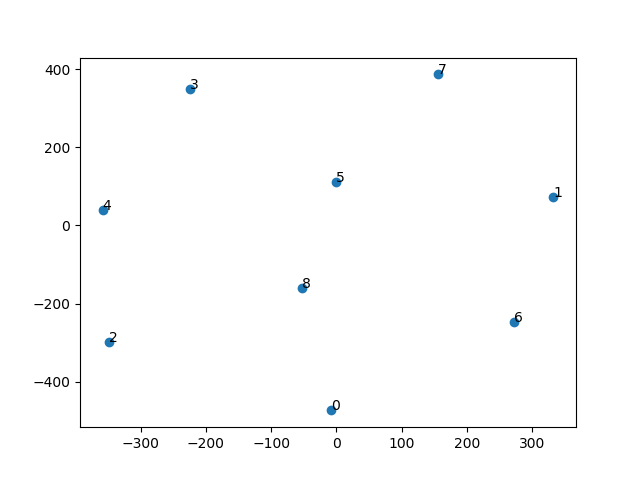
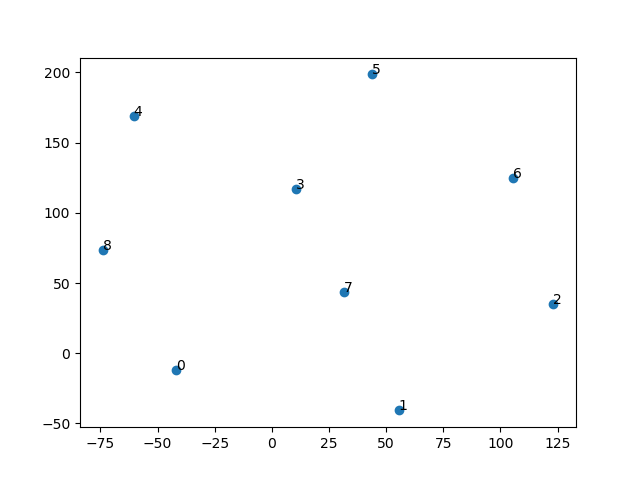
self loop random walk

diff --git a/toy_data/generate_walk.py b/toy_data/generate_walk.py
@@ -59,9 +59,6 @@ class RandomWalk:
         """
         walk = [start_vertex]
         neighbour_edges, neighbour_edges_count = self.first_neighbour_edges(start_vertex)
-        for neighbour_edge in neighbour_edges:
-            if start_vertex in self.graph[neighbour_edge]:
-                neighbour_edges_count[neighbour_edge] = neighbour_edges_count[neighbour_edge] - 1
         count_vertex = []
         for edges in neighbour_edges:
             count_vertex.extend(self.graph[edges])
@@ -73,9 +70,9 @@ class RandomWalk:
             while neighbour_edges_count[edges] > 0:
                 # print(edges, neighbour_edges_count[edges])
                 next_vertex = random.choice(self.graph[edges])
-                if next_vertex not in walk:
-                    walk.append(next_vertex)
-                    neighbour_edges_count[edges] = neighbour_edges_count[edges] - 1
+                walk.append(next_vertex)
+                neighbour_edges_count[edges] = neighbour_edges_count[edges] - 1
+
         return walk
 
     def generate_walk_data_set(self, walks_per_vertex):
@@ -108,7 +105,7 @@ class RandomWalk:
 
 
 walk = RandomWalk()
-
-data, label = (walk.generate_walk_data_set(60))
+#print(walk.single_walk(0))
+data, label = (walk.generate_walk_data_set(100))
 np.save("walk_dataset/data.npy", data)
 np.save("walk_dataset/label.npy", label)

diff --git a/model/negative_sampling_skipgram.py b/model/negative_sampling_skipgram.py
@@ -8,8 +8,8 @@ import json
 
 class SkipGram:
     def __init__(self):
-        self.latent_dimension = 5
-        self.max_length = 4
+        self.latent_dimension = 10
+        self.max_length = 6
         self.vocab_size = 9
 
     def skip_gram_model(self):
@@ -71,7 +71,8 @@ class SkipGram:
         return embedding_json
 
 
-feature, label = np.load("../toy_data/walk_dataset/data.npy"), np.load("../toy_data/walk_dataset/label.npy")
+feature, label = np.load("../toy_data/walk_dataset/data.npy",allow_pickle=True), np.load("../toy_data/walk_dataset/label.npy")
+print(feature.shape)
 skip_gram_obj = SkipGram()
 json_emb = skip_gram_obj.recover_embedding(feature, label)
 with open("../embeddings/node_embeddings.json", 'w') as node_embedding:
